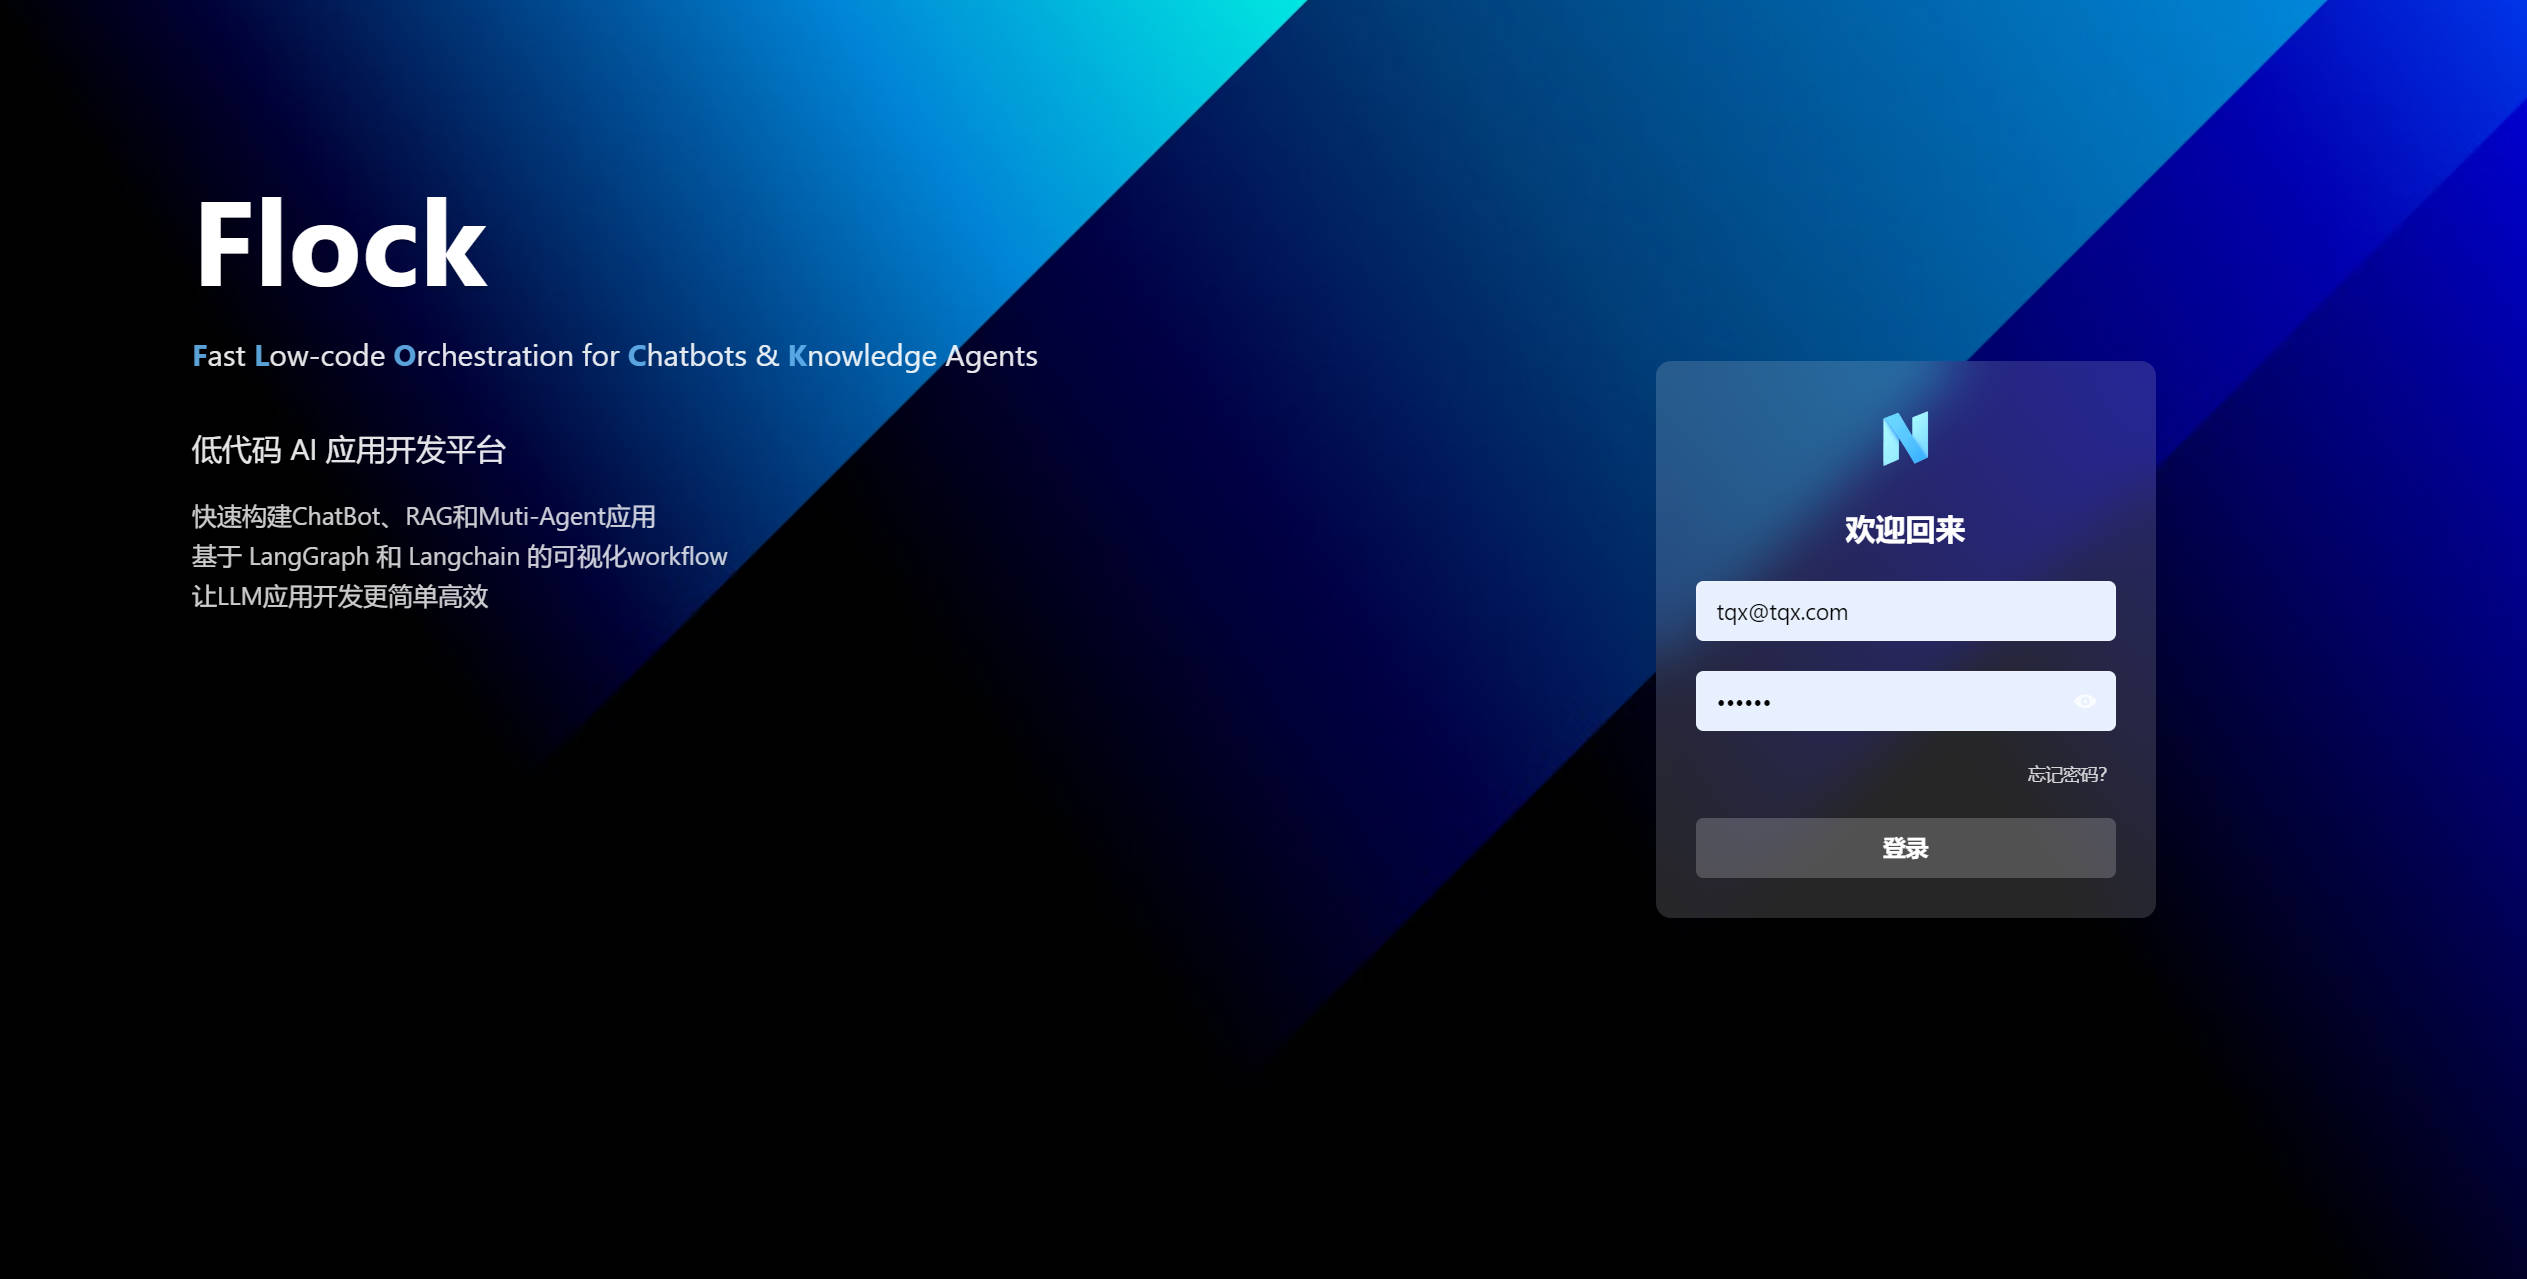
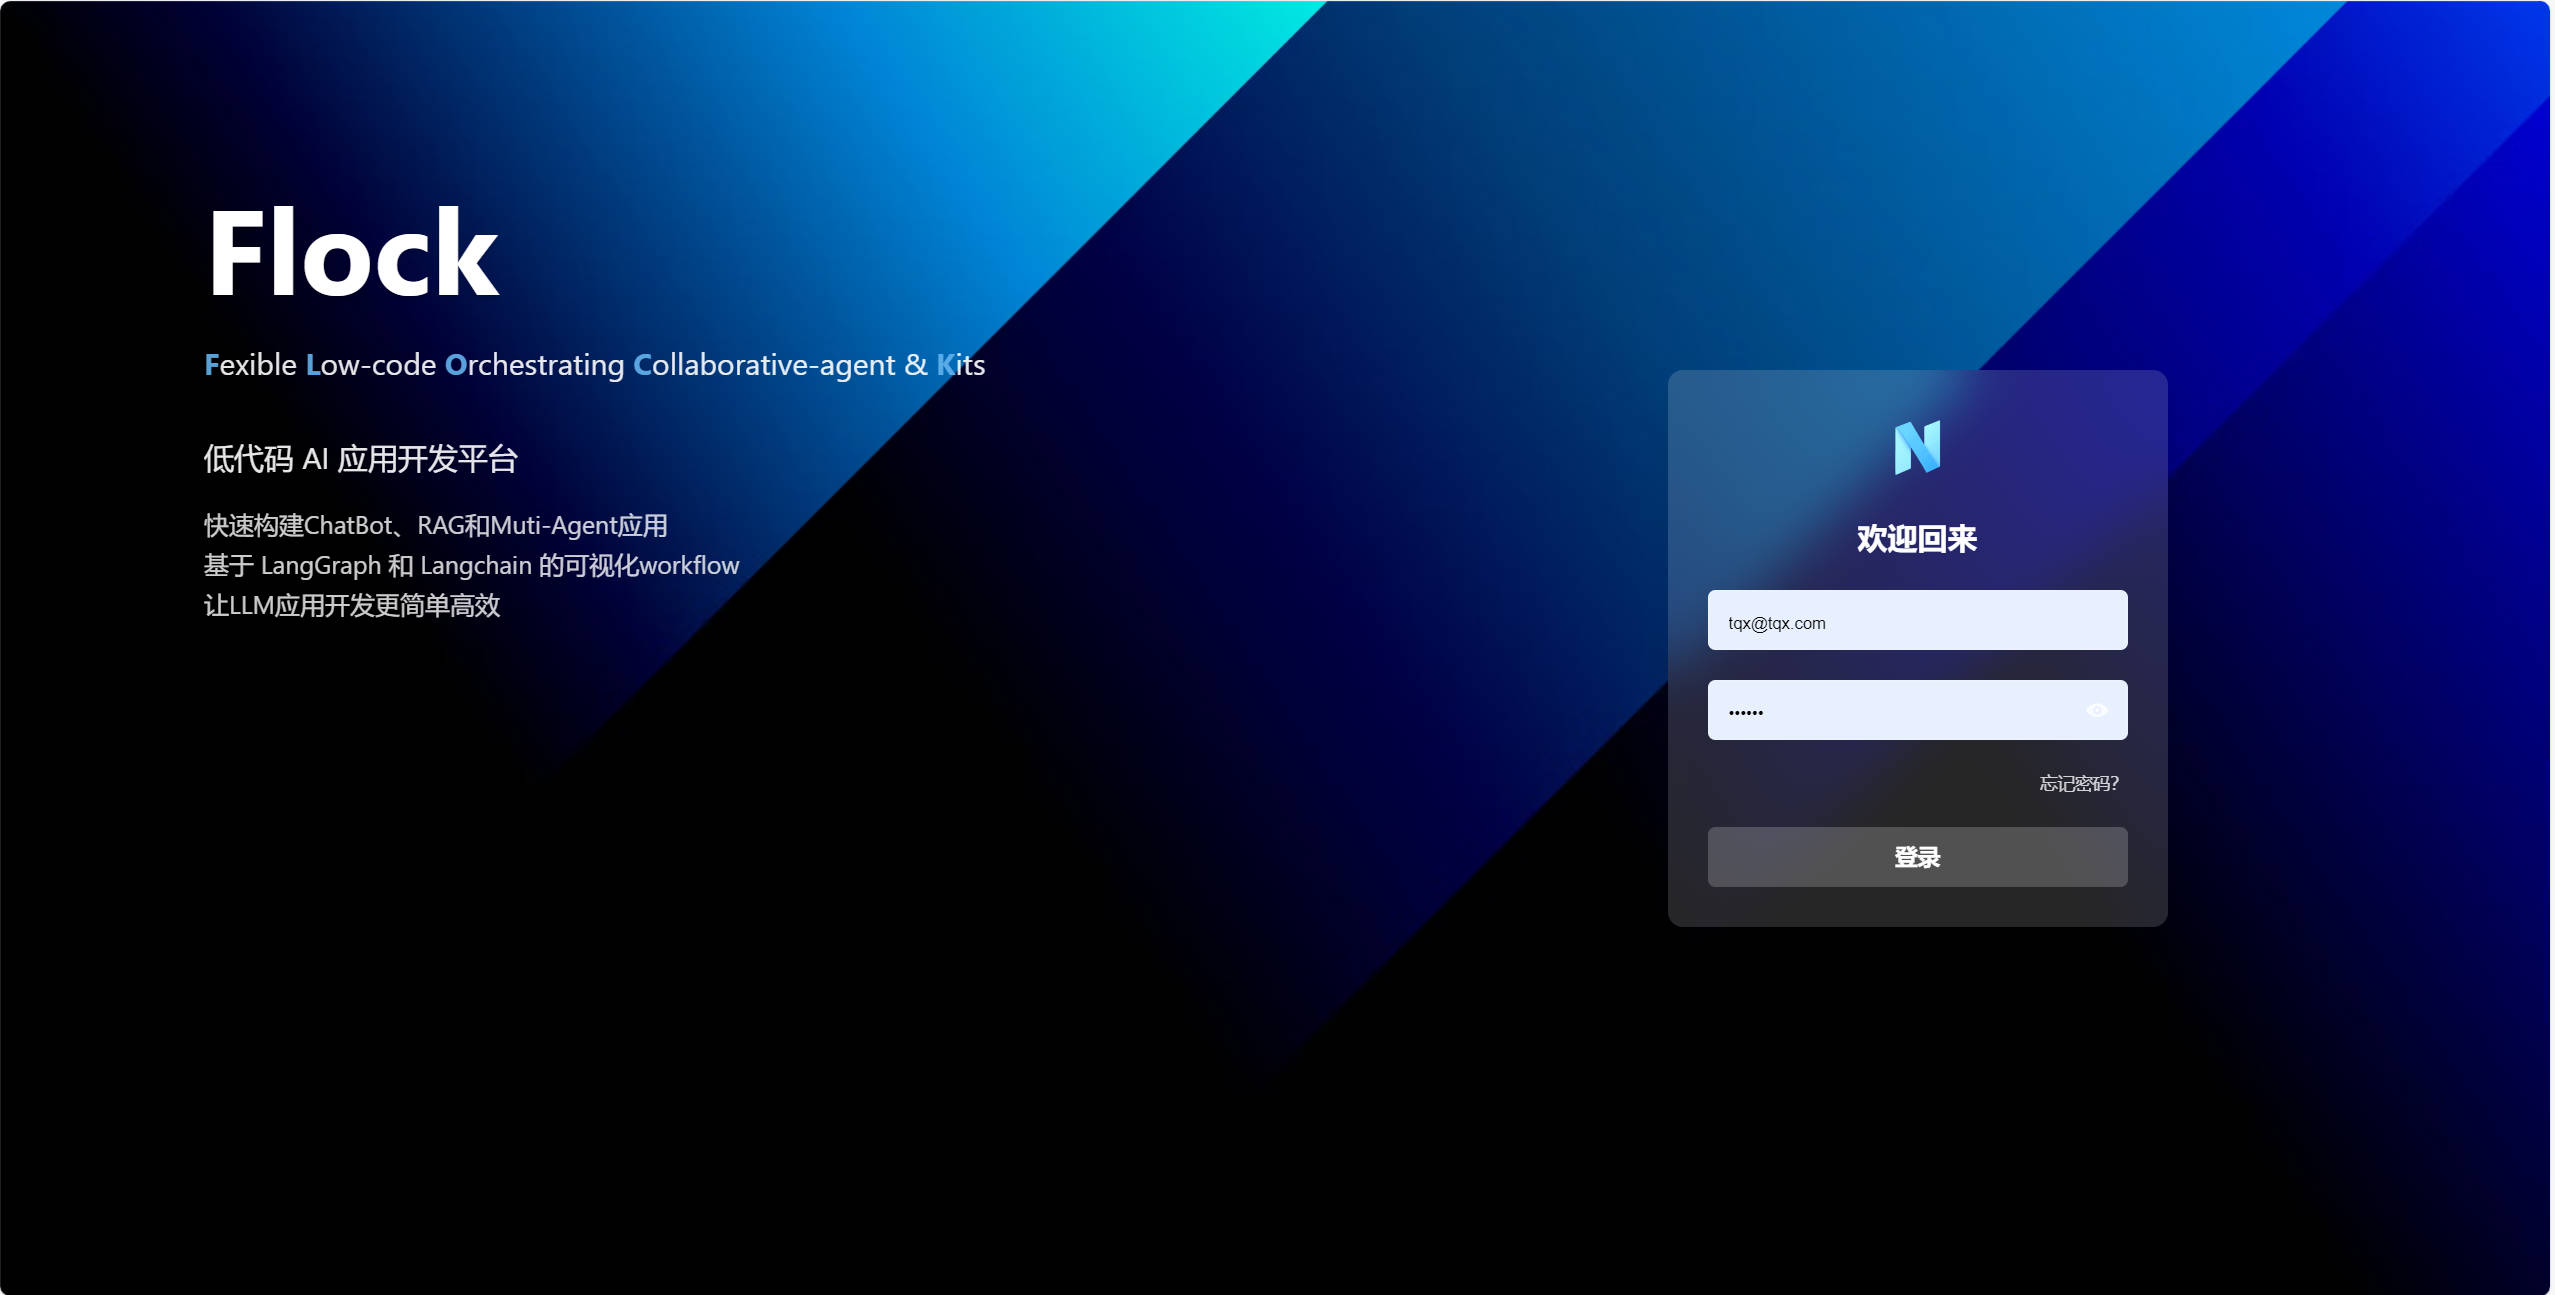
fix:login img (#113)

diff --git a/web/src/app/login/page.tsx b/web/src/app/login/page.tsx
@@ -109,7 +109,7 @@ function Login() {
           <Text as="span" color="blue.300" fontWeight="bold">
             K
           </Text>
-          nits
+          its
         </Text>
         <Text fontSize="2xl" color="white" lineHeight="1.8" opacity={0.9}>
           低代码 AI 应用开发平台
